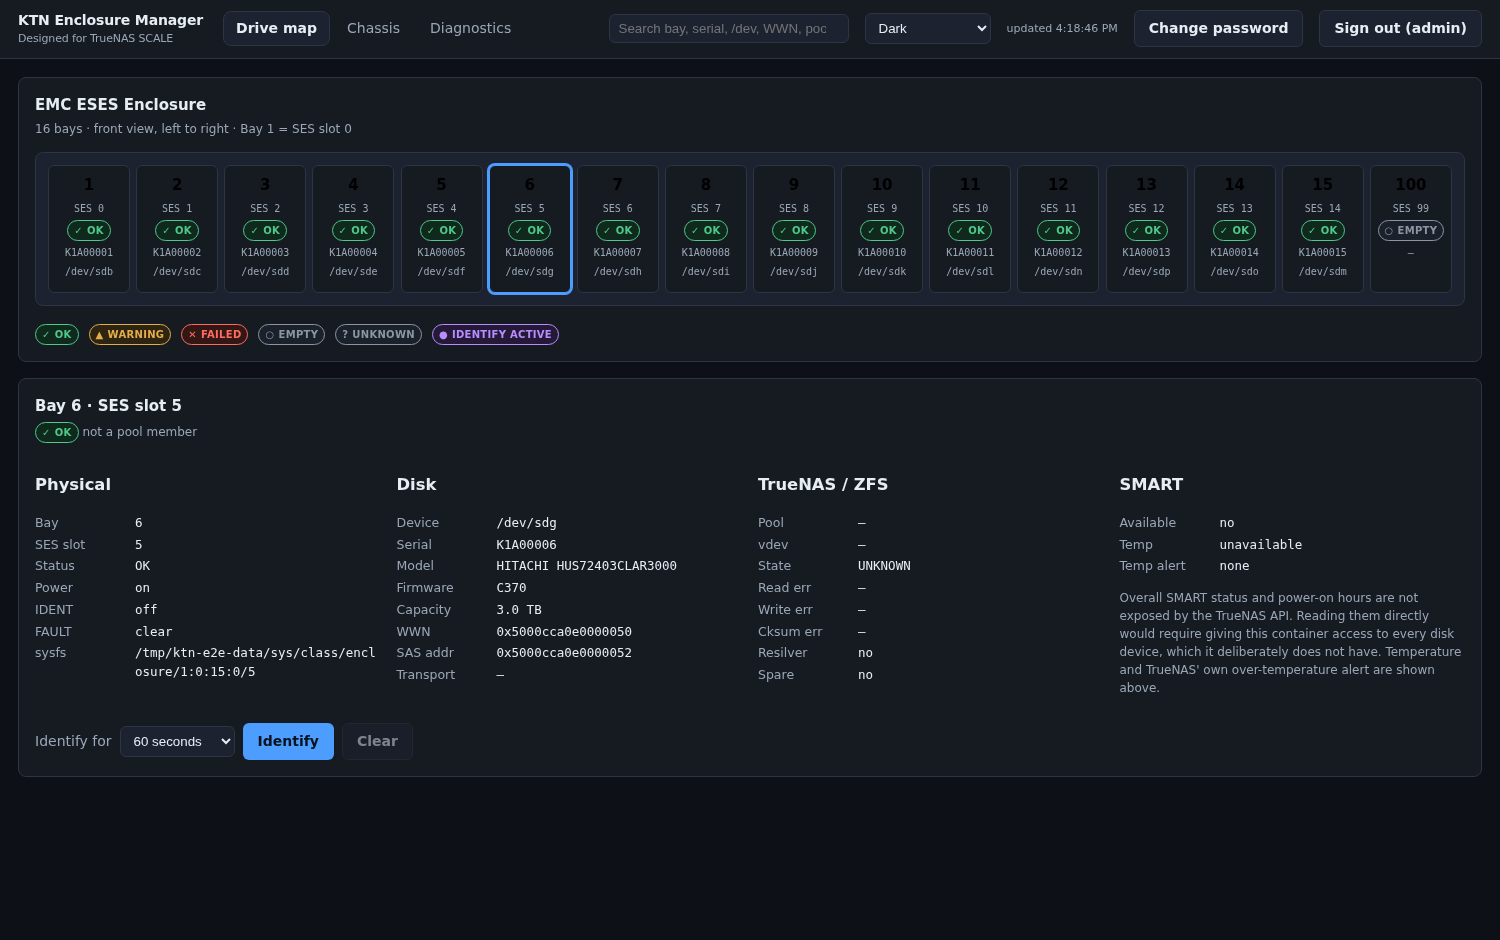
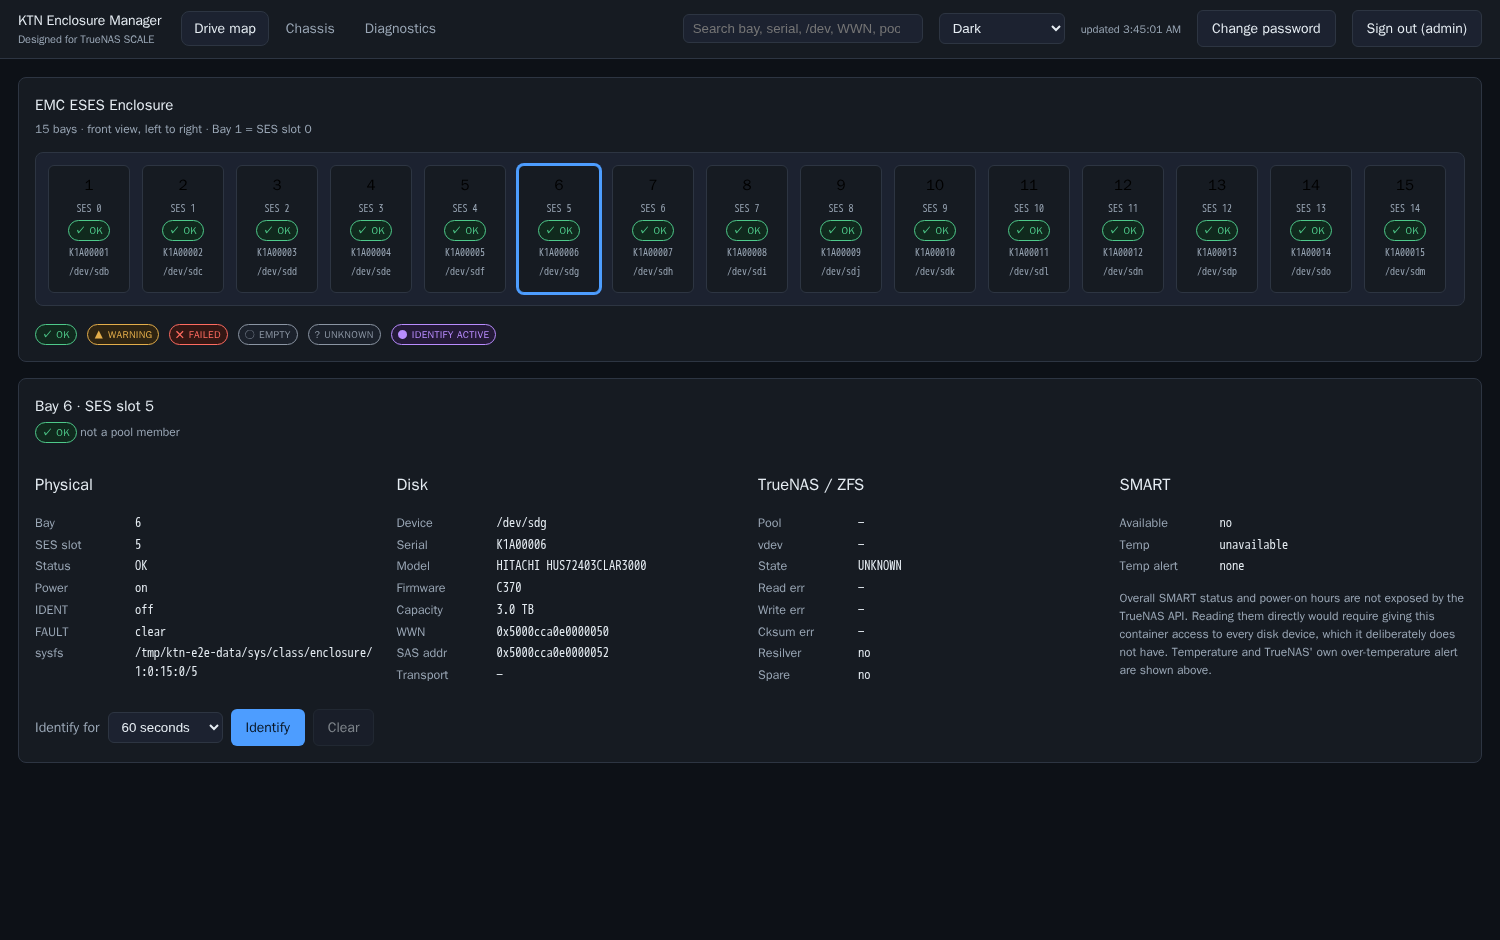
Screenshots depict the real 15-bay shelf, not the test scaffolding (#23)
The README images showed a 16th bay - 'Bay 100, SES 99, EMPTY' - that no
KTN-STL3 has ever had. It is the fixture's synthetic empty slot, added so
discovery is proven to key on the 'slot' attribute rather than directory
naming, and the screenshot pipeline shot it along with the real bays.

The E2E suite keeps the synthetic entries (it asserts on them); the
screenshot flow now sets KTN_E2E_SYNTHETIC_SLOTS=0, which prunes slot 99 and
the decoy directory from its sysfs copy. All six images regenerated: the
drive map reads '15 bays' and ends at bay 15.

Also corrected the README fan section: the two PSU fan banks measurably run
at different speeds (7/7 at 5300 RPM with the request flag latched, 3/3 at
2490), so 'all four run at speed_code=7' overstated it - the firmware does
modulate, it just refuses outside input. The rc=0 lesson stands unchanged.

Claude-Session: https://claude.ai/code/session_014UDohyzVGaVnDkpcLJ4g3V

diff --git a/README.md b/README.md
@@ -147,8 +147,11 @@ implementation gets both wrong:
 Measured, so nobody has to repeat it. The KTN-STL3 exposes four controllable
 cooling elements — `Cooling Fan B` at type header `20` (elements `20,0`,
 `20,1`) and `Cooling Fan A` at `23` (`23,0`, `23,1`) — plus an aggregate
-`Cooling Fan M` at `17` with zero elements, which must not be written to. All
-four run at `speed_code=7`, 5300 RPM.
+`Cooling Fan M` at `17` with zero elements, which must not be written to. The
+enclosure runs the two banks differently on its own authority - one PSU's pair
+latched at `speed_code=7` (5300 RPM, with the "requested on" flag set), the
+other at `speed_code=3` (2490 RPM) - which itself proves the firmware does
+modulate; it just refuses outside input.
 
 **Requesting a lower speed does not work.** `sg_ses --index=20,0
 --set=speed_code=6` returns success and prints nothing, and the value reads
@@ -255,9 +258,12 @@ npx playwright test                                          # E2E against the r
 ### Regenerating the screenshots
 
 ```bash
-bash scripts/e2e-server.sh &          # backend on :8421, against the fixtures
+KTN_E2E_SYNTHETIC_SLOTS=0 bash scripts/e2e-server.sh &   # backend on :8421
 node frontend/scripts/screenshots.mjs
 ```
+
+`KTN_E2E_SYNTHETIC_SLOTS=0` prunes the fixture's synthetic empty bay (SES 99,
+a discovery test aid) so the images show the shelf's real 15 bays.
 
 Shot against the captured fixture, never a live shelf. The fixture is already
 sanitised — serials `K1A0000N`, pool `tank` — so the images cannot carry real
